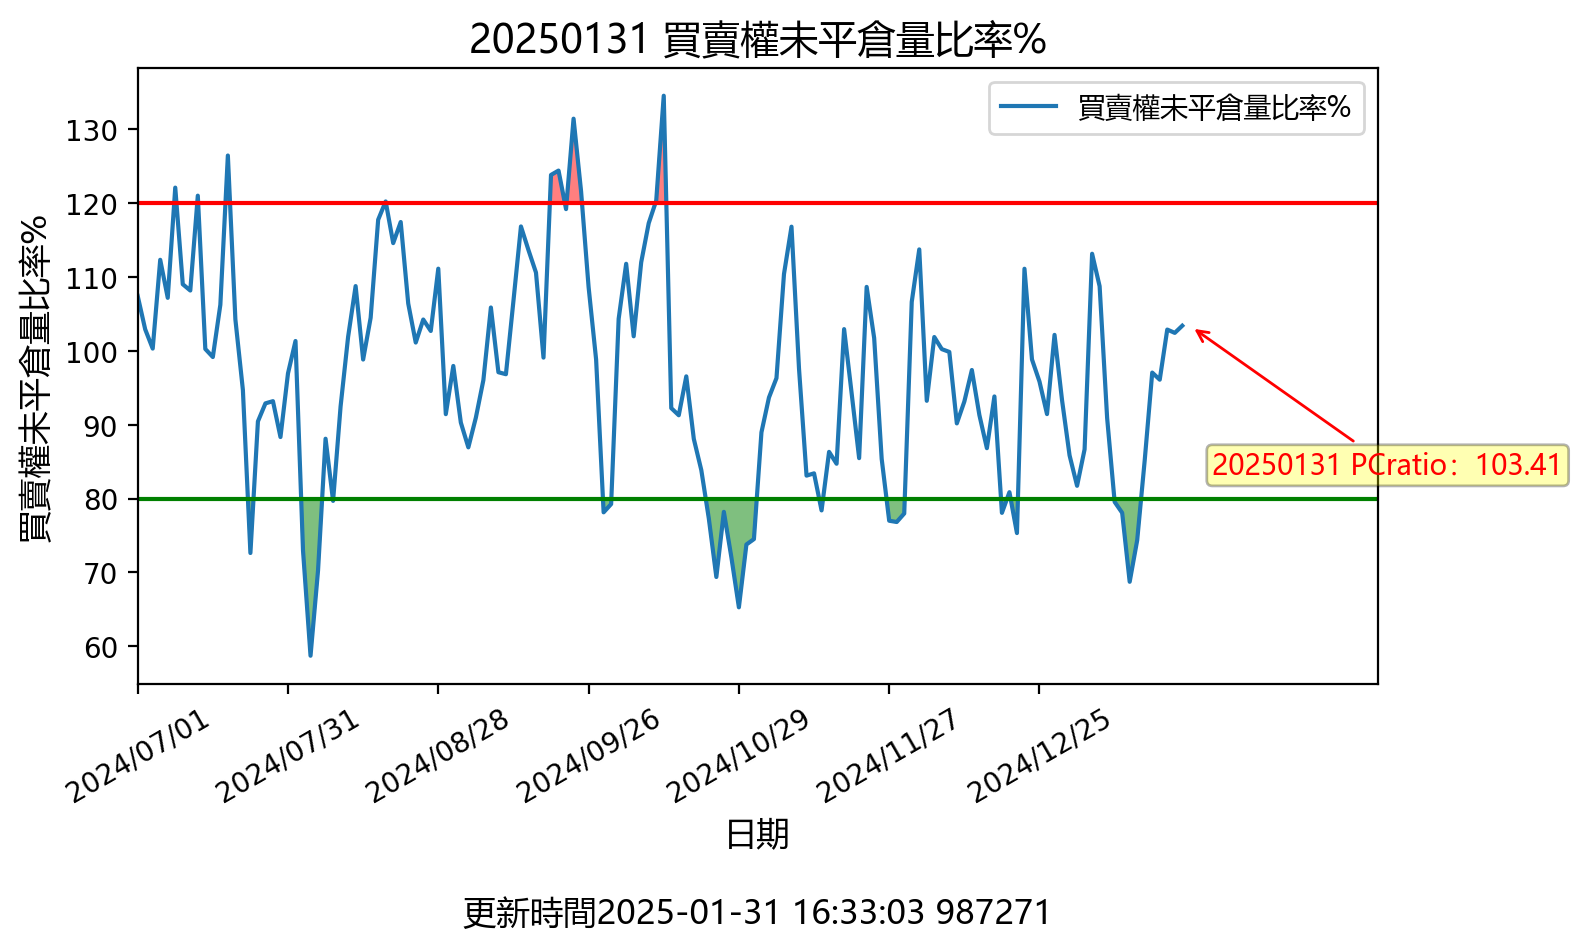
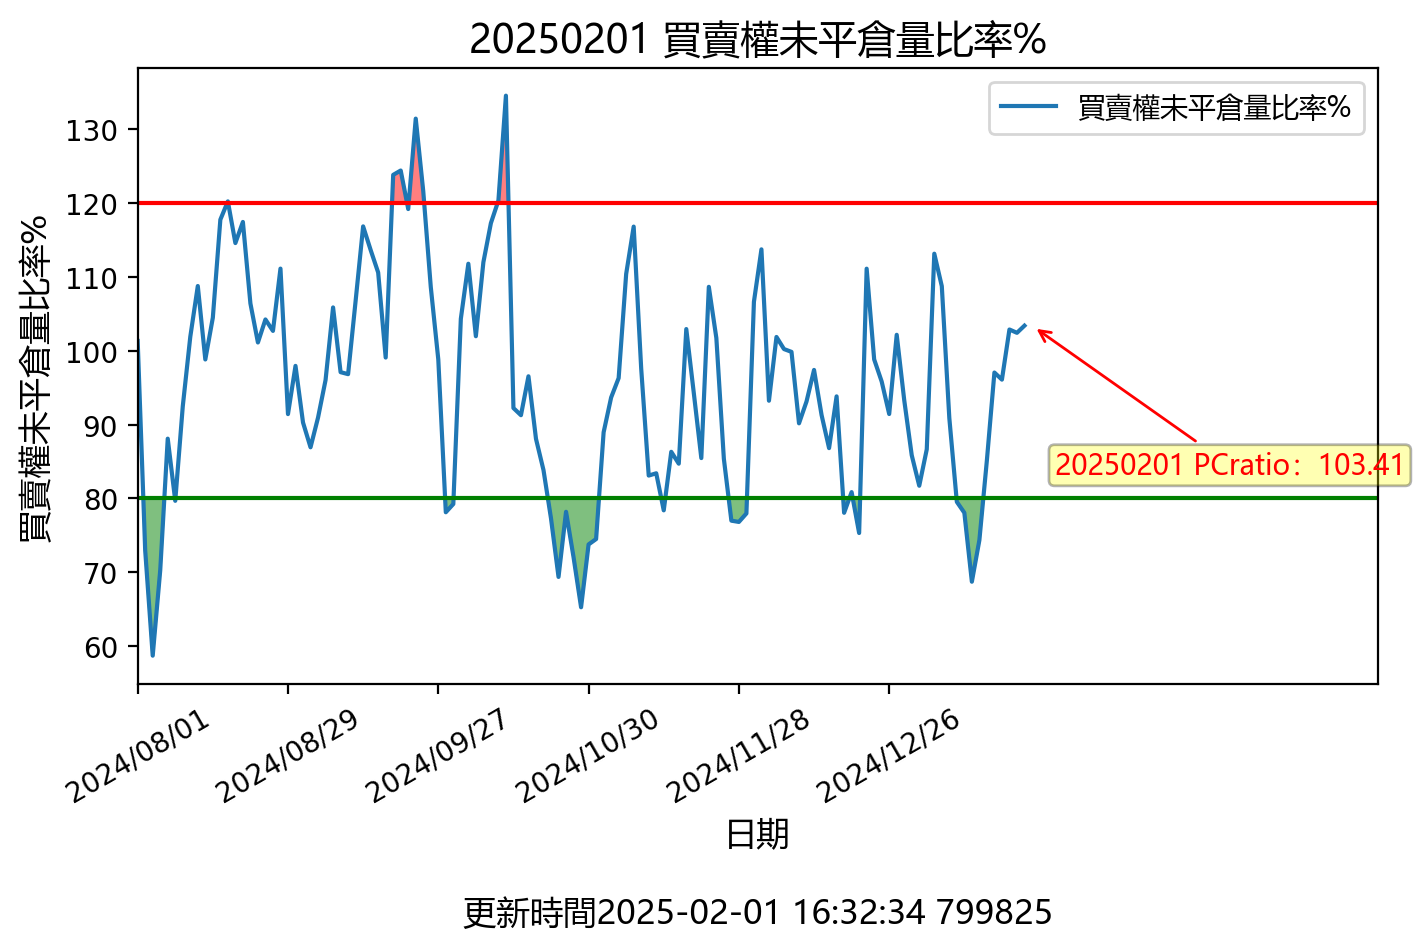
更新時間: Sat Feb  1 16:32:54 CST 2025

diff --git a/README.md b/README.md
@@ -1,12 +1,12 @@
-## 20250131 台指期「預估換倉成本」
+## 20250201 台指期「預估換倉成本」
 ![](images/txfcost.png)
 
-## 20250131 台指期「散戶小台多空比」
+## 20250201 台指期「散戶小台多空比」
 ![](images/bbiri.png)
 
-## 20250131 台指選擇權「Put/Call Ratios」
+## 20250201 台指選擇權「Put/Call Ratios」
 ![](images/pcratio.png)
 
-## 20250131 台指期「大額交易人」
+## 20250201 台指期「大額交易人」
 ![](images/blocktrade.png)
 
